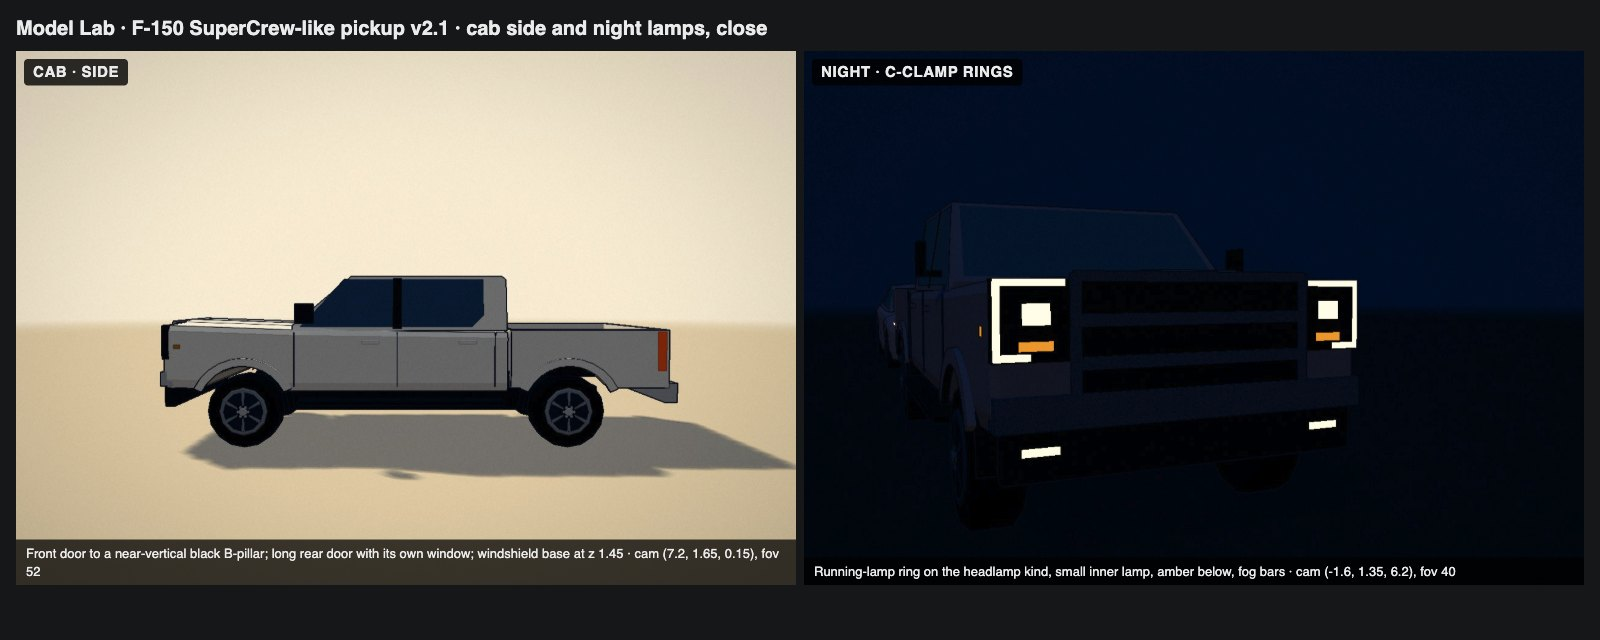
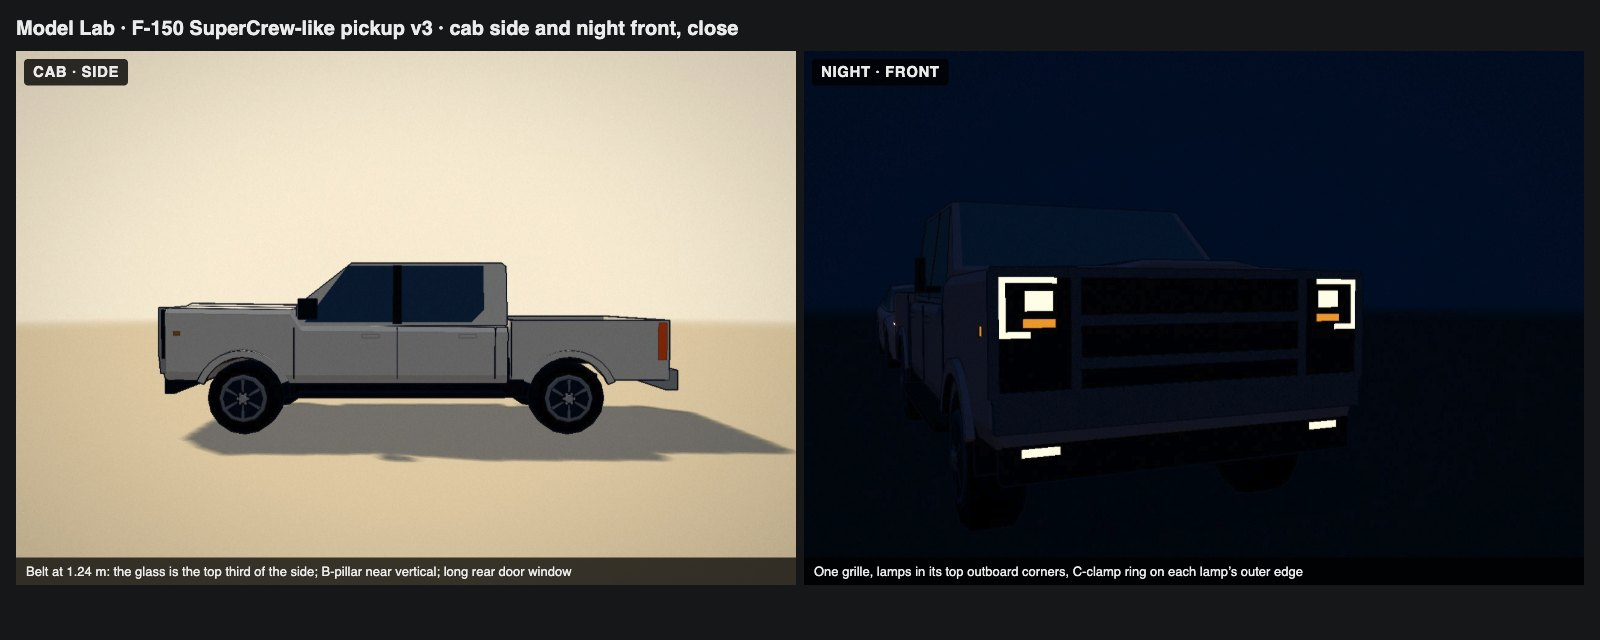
F-150 v3: tall glass over a slim body, tyres that fill black-flared arches, lamps in one grille
Sam's third pass: the belt drops to 1.24 m so the glass is the top third of
the side; the arches tighten to the 0.82 m tyres (black flares on the work
trim); the headlamps sit in the top outboard corners of one full-width
grille with the C-clamp ring on each lamp's outer edge; the hood is longer
and higher. Close 3,110 / traffic 1,178 triangles.

diff --git a/web/src/vignette/road-pickup.ts b/web/src/vignette/road-pickup.ts
@@ -21,13 +21,14 @@ const HALF = 2.029 / 2; // 79.9 in without mirrors
 const TYRE_R = 0.412; // 275/65R18, 32.1 in, on a 4x4's ride height
 const TRACK = 1.725; // 67.9 in front, 68.3 in rear
 const ROOF = 1.955; // 4x2 1.915, 4x4 1.958
-const BELT = 1.33; // side-window sill, just under the hood line (estimated)
+const BELT = 1.24; // side-window sill: the glass is the top third of the side (estimated)
 const GLASS_TOP = 1.92; // tall door glass (estimated)
-const SCREEN_BASE = 1.45; // windshield base: the SuperCrew cab runs about 2.45 m from here to the back (estimated)
-const BED_TOP = 1.34; // box rail, just under the belt (estimated)
-const SILL = 0.64; // rocker bottom; 9.8 in ground clearance on a 4x4
-const ARCH = 0.52; // wheel-opening radius (estimated)
-const FLARE = 0.09; // arch flare lip, radial depth (estimated)
+const SCREEN_BASE = 1.4; // windshield base at the hood line; the cab runs about 2.4 m from here to the back (estimated)
+const HOOD = 1.44; // hood height at the cowl, rising slightly to the front (estimated)
+const BED_TOP = 1.3; // box rail (estimated)
+const SILL = 0.58; // rocker bottom; 9.8 in ground clearance on a 4x4
+const ARCH = 0.47; // wheel-opening radius: the tyre fills it (estimated)
+const FLARE = 0.08; // arch flare lip, radial depth (estimated)
 const BED_FRONT = CAB_BACK - 0.03;
 const TAILGATE = FRONT - PICKUP_LENGTH + 0.11; // box and gate end, 11 cm ahead of the step bumper's face
 const FLOOR = 0.866; // open tailgate to ground, 4x4
@@ -79,10 +80,11 @@ function frontBody(k: FaceKit, near: boolean) {
   // z, half width at the shoulder, top (hood, then belt), sill
   const rows = [
     [CAB_BACK, HALF, BELT, SILL],
-    [SCREEN_BASE - 0.02, HALF, BELT + 0.03, SILL],
-    [2.25, HALF, 1.39, SILL + 0.02],
-    [FRONT - 0.08, HALF - 0.015, 1.41, SILL + 0.04],
-    [FRONT - 0.03, HALF - 0.05, 1.395, SILL + 0.06],
+    [SCREEN_BASE - 0.06, HALF, BELT + 0.02, SILL],
+    [SCREEN_BASE + 0.06, HALF, HOOD, SILL],
+    [2.25, HALF, HOOD + 0.01, SILL + 0.02],
+    [FRONT - 0.08, HALF - 0.012, HOOD + 0.02, SILL + 0.04],
+    [FRONT - 0.03, HALF - 0.04, HOOD, SILL + 0.06],
   ];
   const zs = withArch(rows.map((r) => r[0]), FRONT_AXLE, near ? 10 : 5);
   const rings = zs.map((z) => {
@@ -109,7 +111,7 @@ function cab(k: FaceKit) {
     [CAB_BACK, 0.965, 0.87, ROOF - 0.04],
     [CAB_BACK + 0.05, 0.97, 0.87, ROOF],
     [0.78, 0.97, 0.87, ROOF],
-    [SCREEN_BASE, 0.985, 0.95, BELT + 0.06],
+    [SCREEN_BASE, 0.985, 0.95, HOOD + 0.02],
   ];
   k.skin(rows.map(([z, wb, wt, top]) => [[-wb, BELT, z], [wb, BELT, z], [wt, top, z], [-wt, top, z]]), body);
   const side = (z: number, y: number, s: number, lift = 0.008) => {
@@ -122,13 +124,13 @@ function cab(k: FaceKit) {
     return [x * wt, h + 0.006, z];
   };
   // Windshield across the raked front of the greenhouse.
-  k.panel([top(SCREEN_BASE - 0.03, -0.94), top(SCREEN_BASE - 0.03, 0.94), top(0.82, 0.94), top(0.82, -0.94)], wind, [0, BELT, 0.7]);
+  k.panel([top(SCREEN_BASE - 0.03, -0.94), top(SCREEN_BASE - 0.03, 0.94), top(0.78, 0.94), top(0.78, -0.94)], wind, [0, BELT, 0.7]);
   for (const s of [-1, 1]) {
     // Front door glass under the A-pillar, black B-pillar, rear door glass to the C-pillar.
     // SuperCrew: front door glass under the A-pillar, a near-vertical black B-pillar, then the long
     // rear door's own glass, and a body-colour C-pillar to the back of the cab.
     const lo = BELT + 0.04, hi = GLASS_TOP;
-    k.panel([side(1.36, lo, s), side(0.3, lo, s), side(0.3, hi, s), side(0.86, hi, s)], glass, [0, 1.6, 0.8]);
+    k.panel([side(1.3, lo, s), side(0.3, lo, s), side(0.3, hi, s), side(0.82, hi, s)], glass, [0, 1.6, 0.8]);
     k.panel([side(0.3, BELT + 0.02, s), side(0.2, BELT + 0.02, s), side(0.2, ROOF - 0.025, s), side(0.3, ROOF - 0.025, s)], dark, [0, 1.6, 0.25]);
     k.panel([side(0.2, lo, s), side(-0.6, lo, s), side(-0.74, lo + 0.14, s), side(-0.74, hi, s), side(0.2, hi, s)], glass, [0, 1.6, -0.3]);
   }
@@ -158,8 +160,10 @@ function bed(k: FaceKit, near: boolean) {
   for (const s of [-1, 1]) k.box(s * (inner - 0.12), FLOOR + 0.13, REAR_AXLE, 0.24, 0.26, 2 * ARCH, liner);
 }
 
-/** Body-colour flare lips standing proud of each wheel opening, from sill to sill over the tyre. */
-function flares(k: FaceKit, near: boolean) {
+/** Flare lips standing proud of each wheel opening, from sill to sill over the tyre: body colour, or
+ * black plastic on the work trim. */
+function flares(k: FaceKit, near: boolean, trim: PickupTrim) {
+  const lip = trim === 'xl' ? plastic : body;
   const a0 = Math.asin((SILL - TYRE_R) / ARCH), segs = near ? 10 : 5, out = 0.035;
   for (const axle of [FRONT_AXLE, REAR_AXLE])
     for (const s of [-1, 1])
@@ -167,12 +171,12 @@ function flares(k: FaceKit, near: boolean) {
         const ang = (j: number) => a0 + ((Math.PI - 2 * a0) * j) / segs;
         const p = (j: number, x: number, r: number) => [s * x, TYRE_R + r * Math.sin(ang(j)), axle - r * Math.cos(ang(j))];
         const hub = [s * (HALF - 0.3), TYRE_R, axle];
-        k.panel([p(i, HALF + out, ARCH), p(i + 1, HALF + out, ARCH), p(i + 1, HALF + out, ARCH + FLARE), p(i, HALF + out, ARCH + FLARE)], body, [0, TYRE_R, axle]);
-        k.panel([p(i, HALF - 0.01, ARCH + FLARE), p(i + 1, HALF - 0.01, ARCH + FLARE), p(i + 1, HALF + out, ARCH + FLARE), p(i, HALF + out, ARCH + FLARE)], body, hub);
+        k.panel([p(i, HALF + out, ARCH), p(i + 1, HALF + out, ARCH), p(i + 1, HALF + out, ARCH + FLARE), p(i, HALF + out, ARCH + FLARE)], lip, [0, TYRE_R, axle]);
+        k.panel([p(i, HALF - 0.01, ARCH + FLARE), p(i + 1, HALF - 0.01, ARCH + FLARE), p(i + 1, HALF + out, ARCH + FLARE), p(i, HALF + out, ARCH + FLARE)], lip, hub);
         k.panel([p(i, HALF - 0.01, ARCH), p(i + 1, HALF - 0.01, ARCH), p(i + 1, HALF + out, ARCH), p(i, HALF + out, ARCH)], liner, [s * (HALF + 1), TYRE_R + 3, axle]);
         // Close the lip at the sill on both ends.
         for (const [j, next] of [[0, 1], [segs, segs - 1]] as const)
-          if (i === 0) k.panel([p(j, HALF - 0.01, ARCH), p(j, HALF + out, ARCH), p(j, HALF + out, ARCH + FLARE), p(j, HALF - 0.01, ARCH + FLARE)], body, p(next, HALF + out / 2, ARCH + FLARE / 2));
+          if (i === 0) k.panel([p(j, HALF - 0.01, ARCH), p(j, HALF + out, ARCH), p(j, HALF + out, ARCH + FLARE), p(j, HALF - 0.01, ARCH + FLARE)], lip, p(next, HALF + out / 2, ARCH + FLARE / 2));
       }
 }
 
@@ -212,36 +216,40 @@ function details(k: FaceKit, near: boolean, trim: PickupTrim) {
   // A chrome (or dark) bar over a dark lower valance; the grille stands tall between the lamp pods.
   k.box(0, 0.78, FRONT - 0.07, 2 * HALF - 0.04, 0.16, 0.14, bright);
   k.box(0, 0.58, FRONT - 0.09, 2 * HALF - 0.12, 0.24, 0.1, plastic);
-  // Tall, blunt grille from the bumper to the hood line.
-  k.box(0, 1.12, FRONT - 0.035, 1.22, 0.58, 0.05, grilleDark);
-  for (const y of [1.0, 1.2]) k.box(0, y, FRONT - 0.008, 1.22, 0.06, 0.02, grilleBar);
-  for (const x of [-0.62, 0.62]) k.box(x, 1.12, FRONT - 0.008, 0.05, 0.6, 0.02, grilleBar);
-  k.box(0, 1.405, FRONT - 0.008, 1.26, 0.05, 0.02, grilleBar);
+  // One tall grille across the whole front, bumper to hood line, framed in chrome (or dark on the work
+  // trim); the headlamps sit in its top outboard corners.
+  const gTop = HOOD - 0.02, gBot = 0.86, gHalf = HALF - 0.02;
+  k.box(0, (gTop + gBot) / 2, FRONT - 0.035, 2 * gHalf, gTop - gBot, 0.05, grilleDark);
+  for (const y of [gTop, gBot]) k.box(0, y, FRONT - 0.008, 2 * gHalf + 0.02, 0.045, 0.02, grilleBar);
+  for (const x of [-gHalf, -0.62, 0.62, gHalf]) k.box(x, (gTop + gBot) / 2, FRONT - 0.008, 0.045, gTop - gBot, 0.02, grilleBar);
+  for (const y of [1.0, 1.2]) k.box(0, y, FRONT - 0.008, 1.24, 0.05, 0.02, grilleBar);
   for (const s of [-1, 1]) {
     // Headlamp housing, its lens, the C-shaped running-lamp bar (top and outboard) and an amber marker.
     // Headlamp pod at the grille's top corners, ringed by the C-clamp running lamp: along the top,
     // down the outboard edge and back in under the lamp (lit at night with the headlamps).
-    k.box(s * 0.82, 1.2, FRONT - 0.065, 0.36, 0.38, 0.08, dark);
-    k.lamp(s * 0.8, 1.23, FRONT - 0.023, 0.13, 0.1, 'z', lens);
-    k.lamp(s * 0.83, 1.375, FRONT - 0.021, 0.33, 0.035, 'z', lens);
-    k.lamp(s * 0.98, 1.2, FRONT - 0.021, 0.035, 0.36, 'z', lens);
-    k.lamp(s * 0.91, 1.035, FRONT - 0.021, 0.17, 0.035, 'z', lens);
-    k.lamp(s * 0.8, 1.085, FRONT - 0.023, 0.16, 0.045, 'z', amber);
+    // Headlamp in the grille's top outboard corner. The C-clamp running lamp wraps its outer edge:
+    // along the top, down the outboard side and back in underneath (lit at night with the headlamps).
+    k.box(s * 0.81, 1.27, FRONT - 0.03, 0.3, 0.26, 0.04, dark);
+    k.lamp(s * 0.79, 1.29, FRONT - 0.008, 0.13, 0.09, 'z', lens);
+    k.lamp(s * 0.79, 1.19, FRONT - 0.008, 0.15, 0.04, 'z', amber);
+    k.lamp(s * 0.84, 1.385, FRONT - 0.006, 0.26, 0.03, 'z', lens);
+    k.lamp(s * 0.955, 1.26, FRONT - 0.006, 0.03, 0.26, 'z', lens);
+    k.lamp(s * 0.9, 1.14, FRONT - 0.006, 0.14, 0.03, 'z', lens);
     k.lamp(s * (HALF + 0.002), 1.15, FRONT - 0.2, 0.08, 0.05, 'x', amber);
     // Fog lamp bar in the bumper.
     k.lamp(s * 0.78, 0.6, FRONT - 0.037, 0.18, 0.04, 'z', lens);
     // Mirror arm and head, door handles and running board.
     // Door-mounted mirror: a short arm and a dark housing, so it reads as a mirror and not a block.
-    k.box(s * 1.06, 1.44, 1.3, 0.1, 0.04, 0.08, plastic);
-    k.box(s * 1.13, 1.53, 1.28, 0.045, 0.22, 0.2, plastic);
+    k.box(s * 1.06, BELT + 0.1, 1.26, 0.1, 0.04, 0.08, plastic);
+    k.box(s * 1.13, BELT + 0.19, 1.24, 0.045, 0.22, 0.2, plastic);
     k.box(s * 1.0, SILL - 0.12, (CAB_BACK + 1.42) / 2, 0.16, 0.05, 1.42 - CAB_BACK - 0.1, plastic);
     // Tail lamps on the box corners, facing back and wrapping the side.
-    k.lamp(s * (HALF + INNER) / 2, 1.1, TAILGATE - 0.003, HALF - INNER - 0.01, 0.44, '-z', red);
-    k.lamp(s * (HALF + 0.002), 1.1, TAILGATE + 0.08, 0.1, 0.44, 'x', red);
+    k.lamp(s * (HALF + INNER) / 2, 1.06, TAILGATE - 0.003, HALF - INNER - 0.01, 0.42, '-z', red);
+    k.lamp(s * (HALF + 0.002), 1.06, TAILGATE + 0.08, 0.1, 0.42, 'x', red);
     if (!near) continue;
     // Door cuts: a front door to the B-pillar and a long rear door to the C-pillar.
     for (const z of [1.42, 0.25, -0.86]) k.box(s * (HALF + 0.004), (SILL + 0.04 + BELT) / 2, z, 0.008, BELT - SILL - 0.08, 0.012, shadow);
-    for (const z of [0.55, -0.55]) k.box(s * (HALF + 0.012), 1.2, z, 0.02, 0.04, 0.2, trim === 'xl' ? plastic : body);
+    for (const z of [0.55, -0.55]) k.box(s * (HALF + 0.012), BELT - 0.12, z, 0.02, 0.04, 0.2, trim === 'xl' ? plastic : body);
     k.box(s * (HALF + 0.004), (SILL + 0.04 + BED_TOP) / 2, BED_FRONT - 0.006, 0.008, BED_TOP - SILL - 0.08, 0.012, shadow);
   }
   // Rear step bumper, plate recess, and the frame and fuel tank that fill the underside.
@@ -261,7 +269,7 @@ export function roadPickupGeometry({ near = false, paint = body, trim = 'xlt' as
   cab(k);
   bed(k, near);
   for (const s of [-1, 1]) for (const z of [FRONT_AXLE, REAR_AXLE]) wheel(k, (s * TRACK) / 2, z, s, near, trim);
-  flares(k, near);
+  flares(k, near, trim);
   details(k, near, trim);
   return packFaces(k.faces, kindOf, paint);
 }

diff --git a/docs/road-pickup.md b/docs/road-pickup.md
@@ -20,14 +20,14 @@ A midsize sedan follows 3 m behind for scale. City traffic doesn't draw it yet (
 | Front bumper to back of cab | 155.6 in (3.952 m) | same |
 | Box floor length, load floor | 67.1 in (1.704 m); 0.866 m (4x4) | same |
 | Tyres | 275/65R18 (XLT 4x4), radius 0.408 m | same |
-| Hood line about 1.40 m, belt 1.36 m, glass to 1.90 m, box rail 1.34 m, rocker 0.64 m, arch radius 0.52 m plus a 9 cm flare lip, door cuts (front door to the B-pillar, long rear door) | **estimated** from the Commons photos below | — |
+| Hood about 1.44 m at the cowl, belt 1.24 m (the glass is the top third of the side), glass to 1.92 m, windshield base at z 1.40, box rail 1.30 m, rocker 0.58 m, arch radius 0.47 m plus an 8 cm flare lip (black on the work trim), door cuts (front door to the B-pillar, long rear door) | **estimated** from the Commons photos below | — |
 
 ## Detail and cost
 
 | Form | Triangles | Vertices | Use |
 |---|---:|---:|---|
-| Close | 3,046 | — | Model Lab only |
-| Traffic | 1,114 | — | City High, if adopted |
+| Close | 3,110 | — | Model Lab only |
+| Traffic | 1,178 | — | City High, if adopted |
 | Today's generic `pickup` (vehicles.ts) | 432 | 1,296 | City High traffic |
 
 It uses the shared `vehicleMaterial` kinds: 0 paint, 1 headlamps and C-clamp running lamps, 2 tail lamps, 3 glass, 4 trim, and 5 amber markers. It adds no program. Faces come from the shared `face-kit.ts` (the semi's kit, now shared), and a test raycasts both forms and both trims for back faces.
